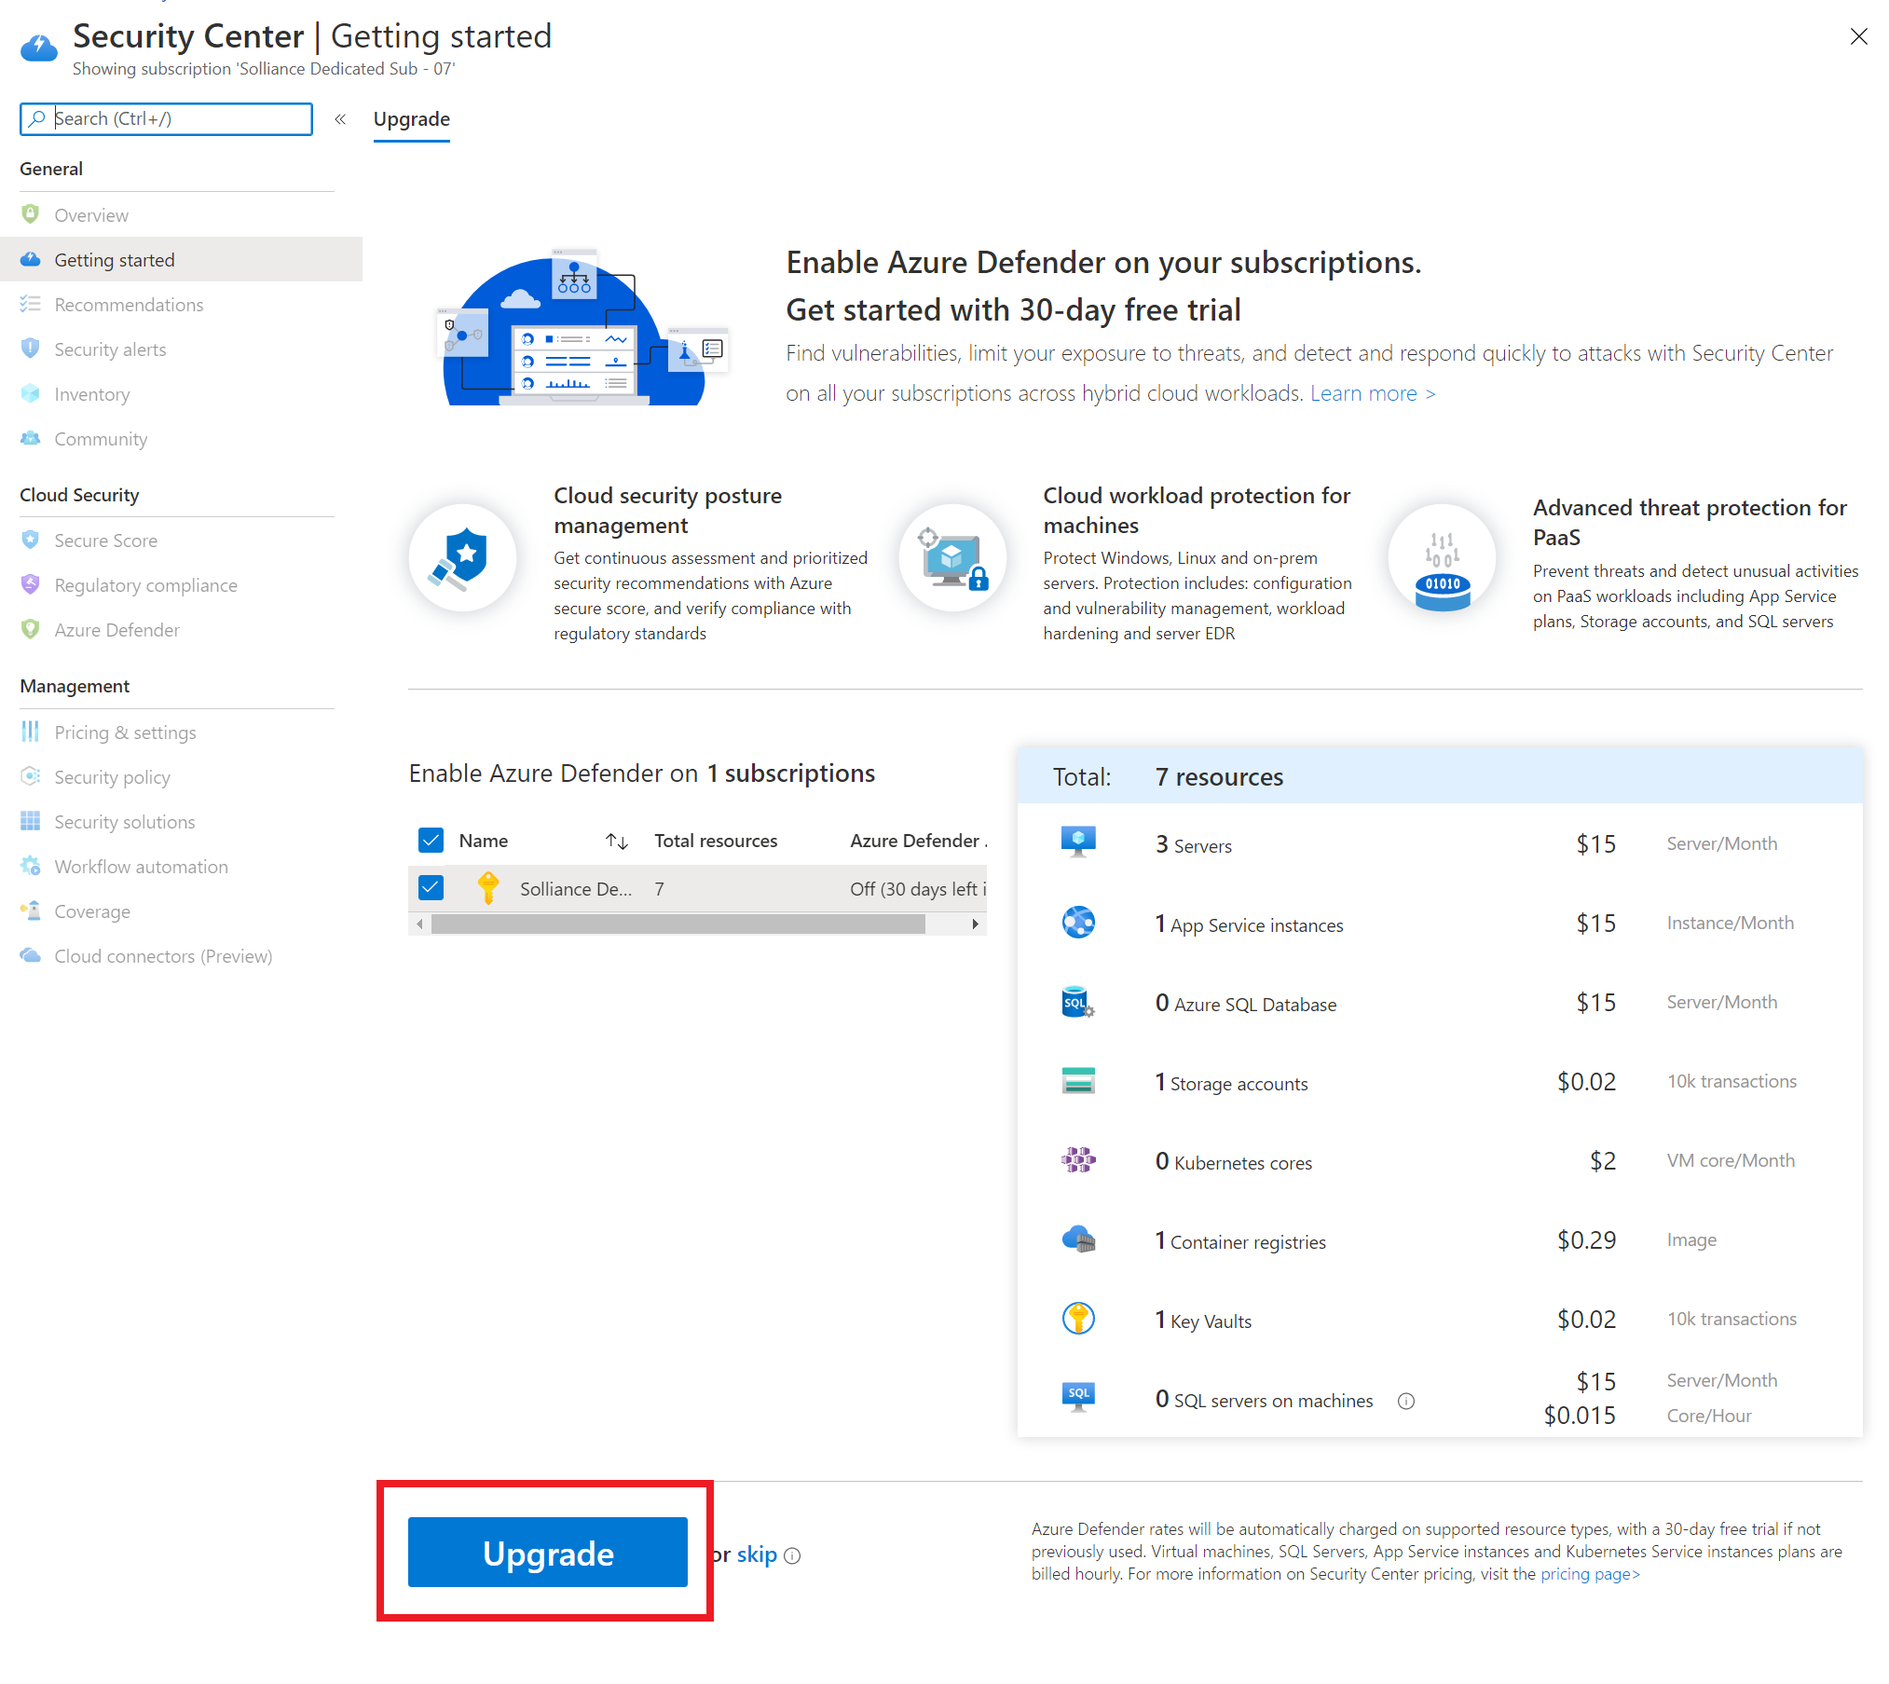
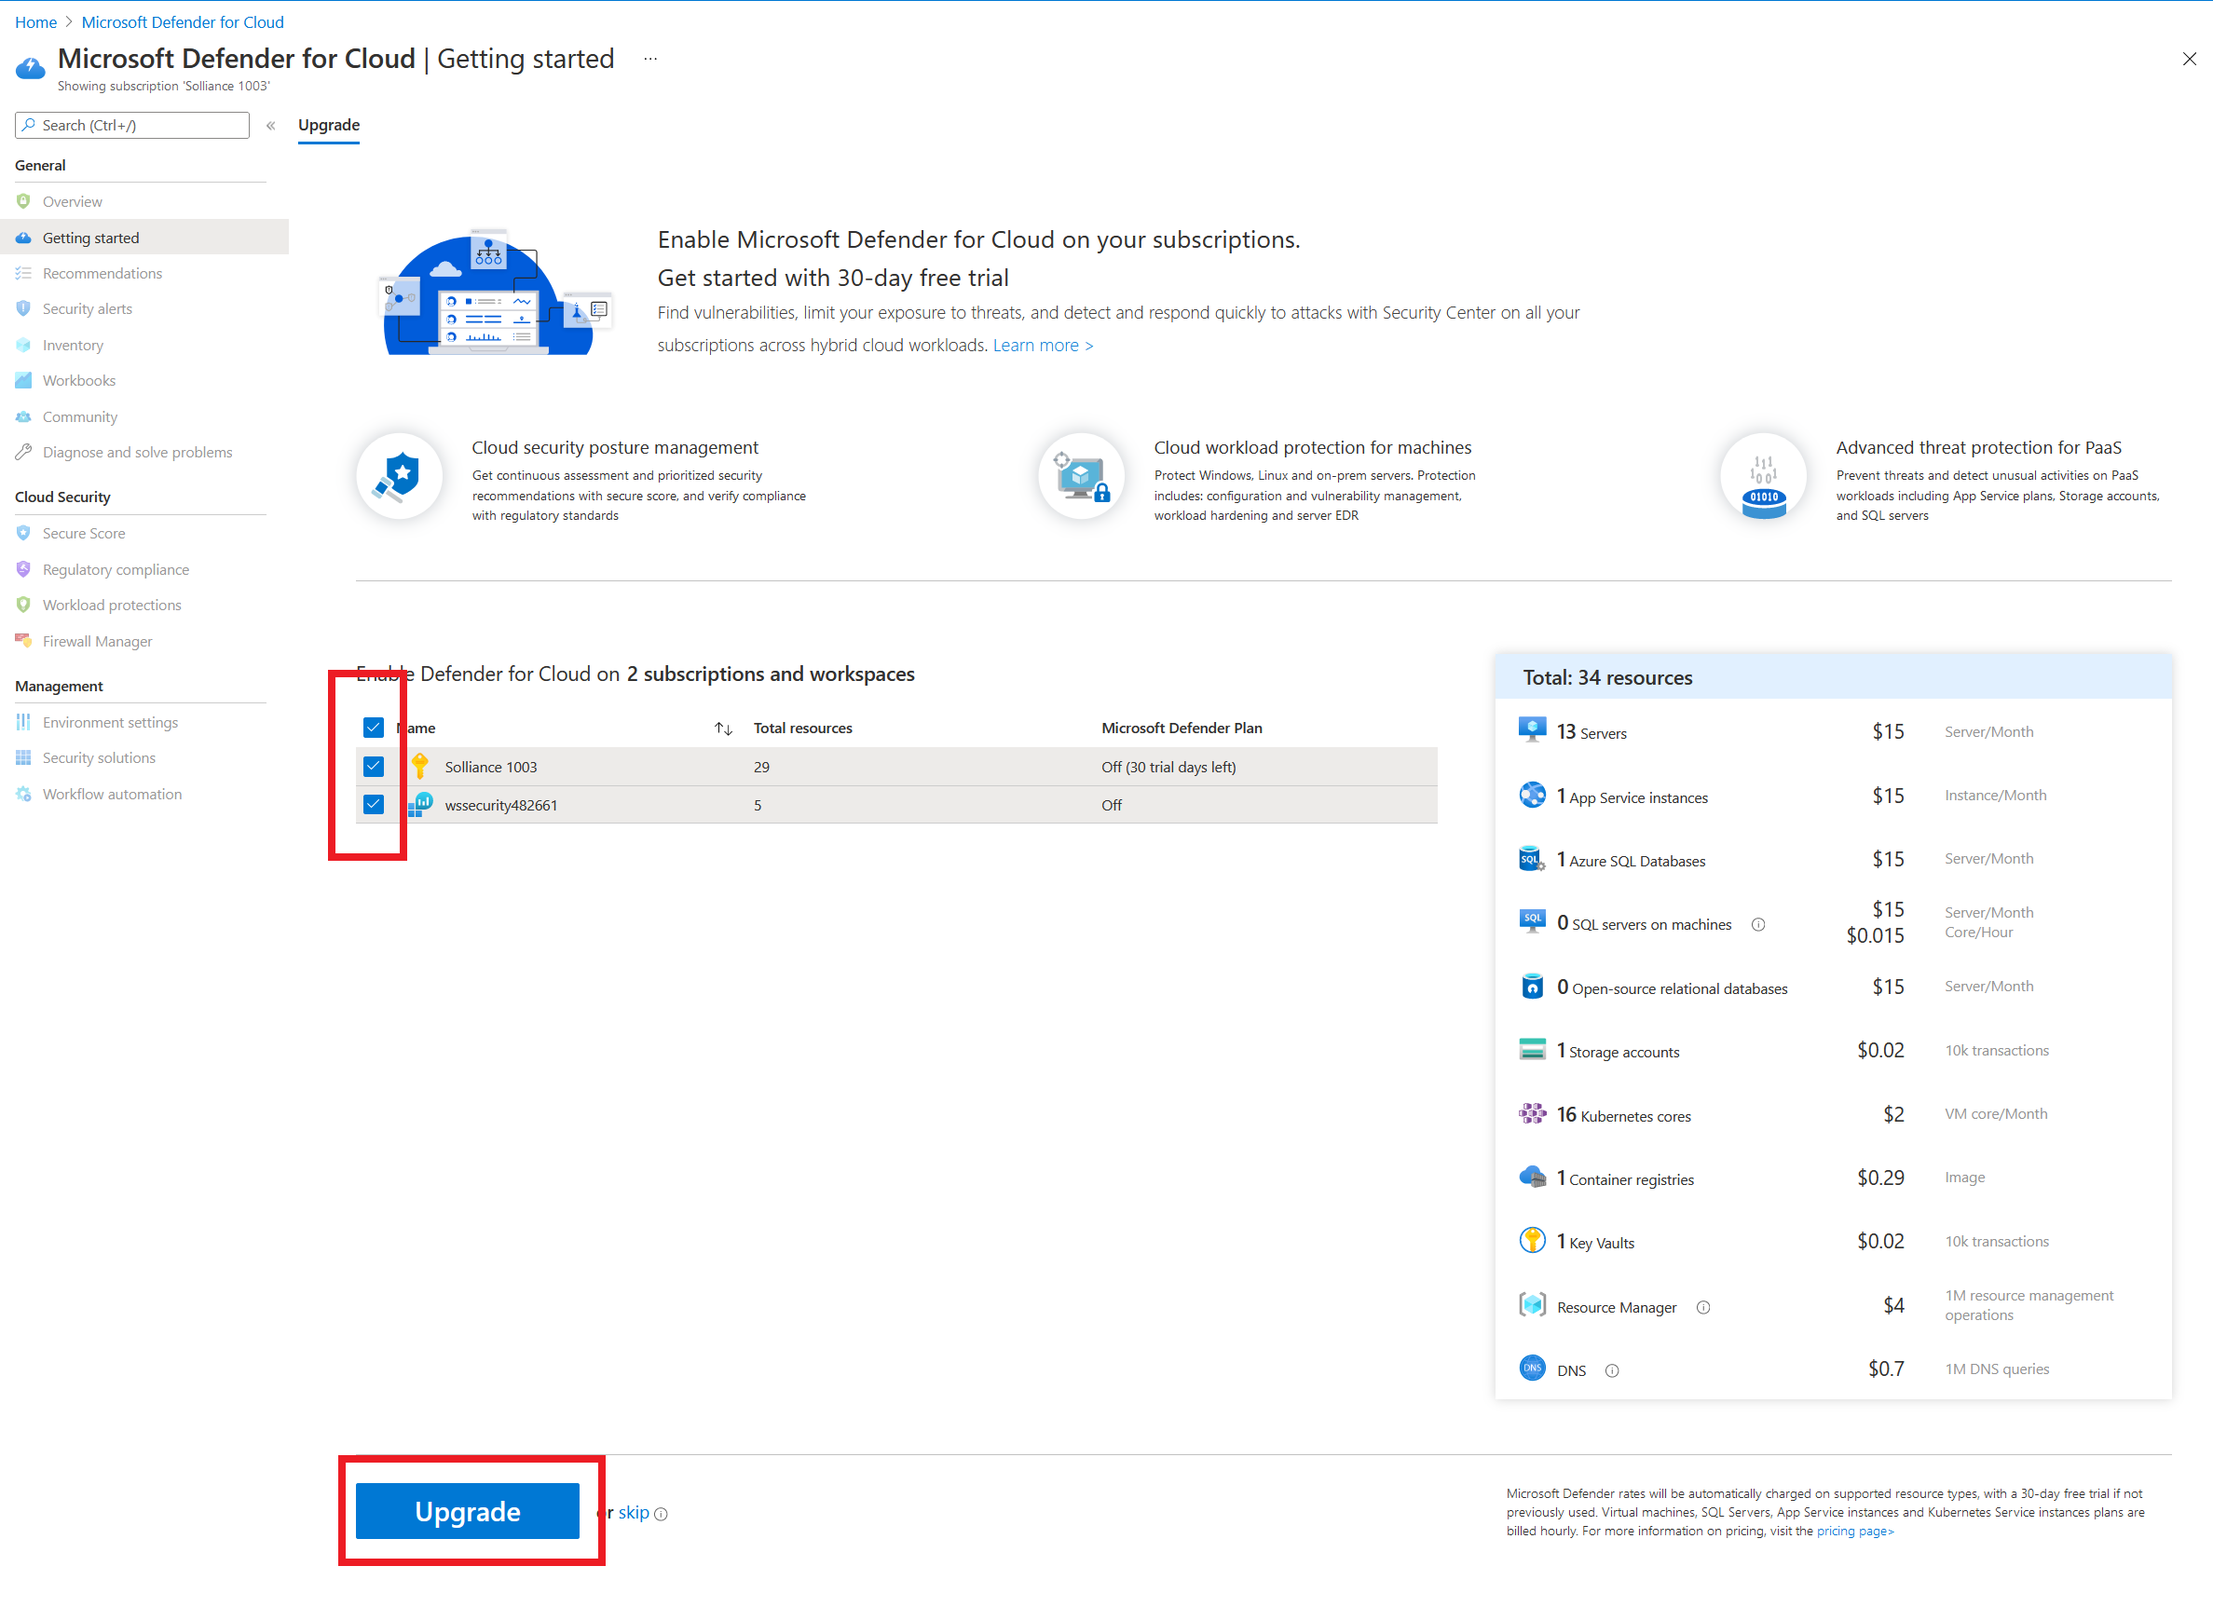
branding updates, re-test of asc fixes.

diff --git a/day-01/lab02-azure-defender-part-ii.md b/day-01/lab02-azure-defender-part-ii.md
@@ -16,17 +16,17 @@
 
     ![Select VM Vulnerability Assessments.](./media/asc_vm_vulnerability.png "Select VM Vulnerability Assessments")
 
-5. Select the checkbox to select all the virtual machines
+5. Under **Unhealthy resources**, select the checkbox to select all the virtual machines
 
     ![Select all VMs.](./media/vm_vulnerability_vms.png "Select all VMs")
 
 6. Select **Fix**
+7. Select the **Deploy the integrated vulnerability scanner powered by Qualys** option
 
     ![Select the Qualsys agent.](./media/vm_vulnerability_agent.png "Select the Qualsys agent")
 
-7. Select **Proceed**
-
-8. In the dialog, select **Fix 6 resources**
+8. Select **Proceed**
+9. In the dialog, select **Fix 6 resources**
 
   > **Note** After a few hours (up to 12), the agent will be installed on all selected machines and the assessment data will start to flow into the Security Center.
 
@@ -34,7 +34,7 @@
 
 ### Task 1: SQL Vulnerability
 
-1. Switch to the Azure Portal and browse to your resource group
+1. Switch to the Azure Portal and browse to the **-security** resource group
 
 2. Browse to the **wssecuritySUFFIX** Azure Database for SQL instance
 
@@ -62,41 +62,49 @@
 
 10. Toggle the **Enable Azure SQL Auditing** to **On**
 
-11. Select **Log Analytics** checkbox
+11. Select **Storage** checkbox
 
 12. Select the **wssecuritySUFFIX** log analytics workspace
 
-13. Toggle the **Enable Auditing of Microsoft support operations** to **On**
+13. Select **Log Analytics** checkbox
+
+14. Select the **wssecuritySUFFIX** log analytics workspace
 
     ![Configure auditing.](./media/sql_vulnerability_storage_auditing_config.png "Configure auditing")
 
-14. Again, select the **Log Analytics** checkbox, then select the lab subscription and the **wssecuritySUFFIX** workspace
+15. Toggle the **Enable Auditing of Microsoft support operations** to **On**
 
-15. Select **Save**
+16. Again, select the **Log Analytics** checkbox, then select the lab subscription and the **wssecuritySUFFIX** workspace
 
-16. In the breadcrumb, select **Server settings**
+17. Select **Save**
 
-17. Select **Save** again
+18. In the breadcrumb, select **Server settings**
 
-18. Navigate to the **wssecuritySUFFIX** Azure Database for SQL server.
+    ![Select Server settings.](./media/sql_breadcrumb.png "Select Server settings")
 
-19. Under **Settings**, select **Databases**
+19. Select **Save** again
 
-20. Select the **Insurance** database
+20. Navigate to the **wssecuritySUFFIX** Azure Database for SQL server.
 
-21. Under **Security**, select **Microsoft Defender for Cloud**
+21. Under **Settings**, select **SQL Databases**
 
-22. Select **View additional findings in Vulnerability Assessment**
+22. Select the **Insurance** database
 
-23. Select **Scan**
+23. Under **Security**, select **Microsoft Defender for Cloud**
+
+24. Select **View additional findings in Vulnerability Assessment**
+
+    ![Select view findings.](./media/sql_view_findings.png "Select view findings")
+
+25. Select **Scan**
 
     ![Select Scan.](./media/sql-vulnerability-scan.png "Select Scan")
 
-24. In the Azure Portal, open **Security Center**
+26. In the Azure Portal, open **Security Center**
 
-25. Under **Cloud Security**, select **Workload Protections**
+27. Under **Cloud Security**, select **Workload Protections**
 
-26. Scroll to the bottom, select **SQL Vulnerability Assessment**, after a few minutes, you should see all servers across the subscription displayed.
+28. Scroll to the bottom, select **SQL Vulnerability Assessment**, after a few minutes, you should see all servers and database scan results across the subscription displayed.
 
     ![Scan results.](./media/sql-vulnerability-scan-results.png "Scan results")
 
@@ -110,64 +118,64 @@
 
 3. Scroll to the bottom and select **File Integrity Monitoring**.
 
-4. Select the **wssecuritySUFFIX** log workspace. If displayed, select **Upgrade Plan**
+4. Select the **wssecuritySUFFIX** log workspace. If **Upgrade Plan** is displayed, select **Upgrade Plan**
 
    ![Update the workspace.](./media/securitycenter-fileintegrity-upgrade.png "Upgrade the workspace")
 
-   1. Select **Try File Integrity Monitoring**.
+   - Select **Try File Integrity Monitoring**.
 
-   2. Select the workspace only, then select **Upgrade**.
+   - Select the workspace only, then select **Upgrade**.
 
-   3. Select the **Continue without installing agents** link.
+   - Select the **Continue without installing agents** link.
 
       ![The continue without installing agents link is highlighted.](./media/fileintegrity-enable.png "Select the continue without installing agents link")
 
-   4. If displayed, select **Enable**, then select **Enable File Integrity Monitoring**. If not displayed, simply select the workspace.
+5. If displayed, select **Enable**, then select **Enable File Integrity Monitoring**. If not displayed, simply select the workspace.
 
-      > **NOTE** This can take some time, but is typically within a few minutes
+   > **NOTE** This can take some time, but is typically within a few minutes
 
-   5. Refresh the File Integrity Monitoring page
+6. Refresh the File Integrity Monitoring page until you see the **settings** menu.
   
-5. In the menu, select **Settings**.
+7. In the menu, select **Settings**.
 
     ![The Settings link is highlighted.](./media/fileintegrity-settings.png "Select the settings link")
 
-6. Select the **Windows Files** tab.
-7. Select **+Add**.
+8. Select the **Windows Files** tab.
+9. Select **+Add**.
 
     ![Add windows item.](./media/fileintegrity-windows.png "Add windows item")
 
-8. For the item name, type **HOSTS**.
-9. For the path, type **c:\windows\system32\drivers\etc\\\***
-10. For the path type, select **Folder**
-11. Toggle **Recursion** to **On**
-12. Toggle **Upload file content** to **True**
-13. Select **Save**.
+10. For the item name, type **HOSTS**.
+11. For the path, type **c:\windows\system32\drivers\etc\\\***
+12. For the path type, select **Folder**
+13. Toggle **Recursion** to **On**
+14. Toggle **Upload file content** to **True**
+15. Select **Save**.
 
     ![The settings page is displayed with the links highlighted.](./media/fileintegrity-addentry.png "Add a new file integrity monitoring item")
 
-14. Select the **File Content** tab.
-15. Select **Link**, then select the **wssecuritySUFFIX** storage account tied to your lab.
+16. Select the **File Content** tab.
+17. Select **Link**, then select the **wssecuritySUFFIX** storage account tied to your lab.
 
     > **NOTE** It will take 15-30 minutes for Log Analytics and its management packs to execute on all your VMs. As you may not have that much time with this lab, screen shots are provided as to what results you will eventually get.
 
     ![The file content page is displayed with the links highlighted.](./media/fileintegrity-filecontent.png "Link a storage account for file changes")
 
-16. Select **Save**
-17. Switch to the Remote Desktop Connection to the **wssecuritySUFFIX-paw-1**.
-18. Open **Event Viewer**.
-19. Expand the **Applications and Services Logs**, then select **Operations Manager**.
-20. Right-click **Operations Manager**, select **Filter Current Log**.
-21. Wait for a new event with the event id of **5001** to be displayed.
-22. Open the **c:\windows\system32\drivers\etc\hosts** file.
-23. Add the following entry:
+18. Select **Save**
+19. Switch to the Remote Desktop Connection to the **wssecuritySUFFIX-paw-1**.
+20. Open **Event Viewer**.
+21. Expand the **Applications and Services Logs**, then select **Operations Manager**.
+22. Right-click **Operations Manager**, select **Filter Current Log**.
+23. Wait for a new event with the event id of **5001** to be displayed.
+24. Open the **c:\windows\system32\drivers\etc\hosts** file.
+25. Add the following entry:
 
     ```cmd
     10.0.0.6    linux-2
     ```
 
-24. Save the file.
-25. After about 15-30 minutes, the Log Analytics workspace will start to pickup changes to your files, registry settings and windows services.
+26. Save the file.
+27. After about 15-30 minutes, the Log Analytics workspace will start to pickup changes to your files, registry settings and windows services.
     - Switch to your **wssecuritySUFFIX** Log Analytics workspace
     - Under **General**, select **Logs**
     - Run the following query:
@@ -182,7 +190,7 @@
 
     ![The file changes are saved to the logs of the workspace.](./media/fileintegrity-logchanges.png "Review the file change logs for the paw-1 machine in the log analytics workspace")
 
-26. You will also start to see the file snapshots show up in the storage account.  Browse to the **wssecuritySUFFIX** storage, then select **changetrackingblob** container, then select the folder that matches the machine name:
+28. You will also start to see the file snapshots show up in the storage account.  Browse to the **wssecuritySUFFIX** storage, then select **changetrackingblob** container, then select the folder that matches the machine name:
 
     ![The file changes are displayed in the storage account.](./media/fileintegrity-snapshots.png "The file changes are displayed in the storage account")
 

diff --git a/day-01/lab01-azure-defender-part-i.md b/day-01/lab01-azure-defender-part-i.md
@@ -170,39 +170,62 @@ Duration: 15 minutes
     ![Select Environment settings.](./media/asc_envrionment_settings.png "Select Environment settings")
 
 4. Under **Settings**, select **Defender plans**
-5. In the Microsoft Defender for Cloud Plans section, click **Enable all** then select **Save**
+5. On the Microsoft Defender for Cloud Plans, if not already selected, select **Enable all Microsoft Defender for Cloud plans**
+6. In the Microsoft Defender for Cloud Plans section, if any of the items are not enabled, click **Enable all** then select **Save**
 
     ![Enable Defender plans.](./media/asc_defender_cloud_plans_enable.png "Enable Defender plans")
 
-6. Select the **wssecuritySUFFIX** log analytics resource
-7. On the Microsoft Defender for Cloud Plans, select **Azure Defender On**
-8. Select **Save**
-9. Under **Settings**, select **Data collection**
-10. Select **Common**
+7. If prompted, select the **wssecuritySUFFIX** log analytics resource
+8. Under **Settings**, select **Security Policy**
+9. If you do not see a Security Center default policy assigned, then select **Assign policy**
+
+    ![Assign Policy.](./media/asc_assign_policy.png "Assign Policy")
+
+10. Select **Review + create**
+11. Select **Create**
+
+12. Navigate back to **Security Center**
+13. Under **Management**, select **Environment Settings**
+14. Expand the subscription node, select the **wssecuritySUFFIX** workspace
+15. Under **Settings**, select **Data collection**
+16. Select **Common**
 
     ![Enable logging.](./media/asc_log_analytics_data_collection.png "Enable logging")
 
-11. Select **Save**
+17. Select **Save**
 
 ### Task 2: Auto provisioning
 
 1. Under **Management**, select **Environment Settings**
 2. Select the lab subscription
-3. Under **Settings**, select **Auto provisioning**
+3. Under **Settings**, select **Auto provisioning**.  In a new subscription, you should see all the items are disabled:
+
+    ![All disabled.](./media/asc_provisioning_off.png "All disabled.")
+
 4. If disabled, toggle the **Log Analytics agent for Azure VMs** to **On**
-5. Toggle the **Log Analytics agent for Azure Arc Machines** to **On**
-6. In the dialog, select the **wssecuritySUFFIX** workspace
-7. Select **Apply**
-8. Toggle the **Vulnerability assessment for machines** to **On**
-9. In the dialog, select the **ASC integrated vulnerability scanner powered by Qualys** workspace
-10. Select **Apply**
+5. Select the **Connect Azure VMs to a different workspace**
+6. Select the **wssecuritySUFFIX** log analytics workspace
+
+    ![Setup provisioning.](./media/asc_setup_la_agent.png "Setup provisioning.")
+
+7. In the dialog, select **Existing and new VMs**
+
+    ![Select existing and new.](./media/asc_setup_new_existing_vms.png "Select existing and new.")
+
+8. Select **Apply**
+9. Toggle the **Log Analytics agent for Azure Arc Machines** to **On**
+10. In the dialog, select the **wssecuritySUFFIX** workspace
+11. Select **Apply**
+12. Toggle the **Vulnerability assessment for machines** to **On**
+13. In the dialog, select the **ASC integrated vulnerability scanner powered by Qualys** workspace
+14. Select **Apply**
 
     ![Select Qualys agent.](./media/asc_extension_vulnerability_assessment.png "Select Qualys agent")
 
-11. Toggle the **Guest Configuration agent** to **On**
-12. Toggle the **Microsoft Dependency agent** to **On**
-13. Toggle the **Policy Add-on for Kubernetes** to **On**
-14. Select **Save**
+15. Toggle the **Guest Configuration agent** to **On**
+16. Toggle the **Microsoft Dependency agent** to **On**
+17. Toggle the **Policy Add-on for Kubernetes** to **On**
+18. Select **Save**
 
     ![Review final settings](./media/asc_auto_provisioning_settings.png "Review final settings")
 
@@ -226,30 +249,22 @@ Duration: 15 minutes
 
 8. Select **Save**
 
-### Task 4: Default Security Policy
-
-1. Select **Security Policy**
-2. For the **Security Center default policy**, select **Assign policy**
-
-    ![Assign Policy.](./media/asc_assign_policy.png "Assign Policy")
-
-3. Select **Review + create**
-4. Select **Create**
-
 ## Exercise 8: Creating Sample Alerts
 
 ### Task 1: Create sample alerts
 
-1. Open the Azure Portal
-2. Browse to **Security Center**
-3. Under **General**, select **Security alerts**
+1. Browse back to **Security Center**
+2. Under **General**, select **Security alerts**
+3. In the top navigation, select **Sample alerts**
 
     ![Select Sample alerts.](./media/asc_sample_alerts.png "Select Sample alerts.")
 
-4. In the top navigation, select **Sample alerts**
-5. Select **Create sample alerts**, after a few minutes, you should see several security alerts generated:
+4. Select **Create sample alerts**, after a few minutes, you should see several security alerts generated:
 
     ![Sample alerts are displayed.](./media/security_center_sample_alerts.png "Sample alerts are displayed")
+
+5. Take a few minutes to review a couple of the sample alerts.
+6. Once done reviewing, select all the alerts and then select **Change status->Dismiss**
 
 ## Reference Links
 
